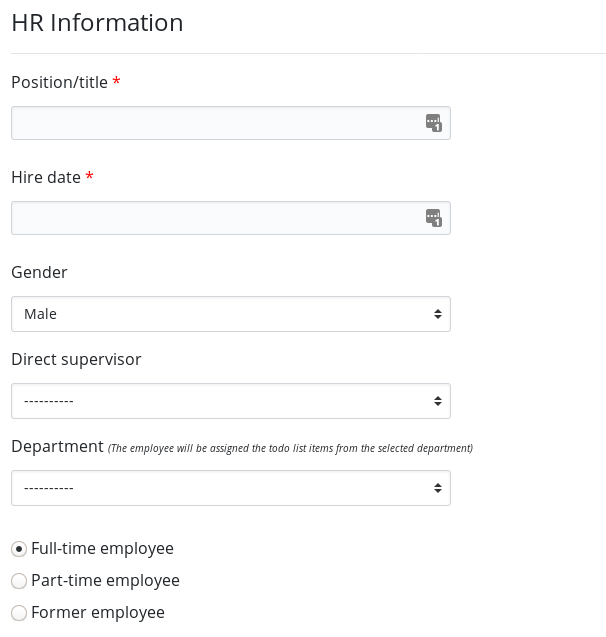
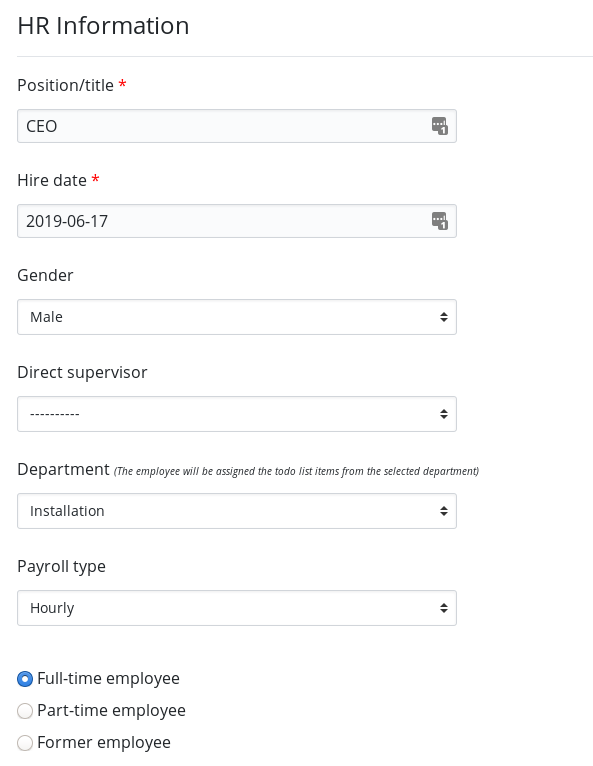
Add the hourly/salary field

diff --git a/content/docs/employees.md b/content/docs/employees.md
@@ -32,6 +32,7 @@ The next section deals more closely with HR specific information about the emplo
 * **Gender:** _Can be set to "Male", "Female" or "Other". Helpful as a reference to which pronouns an employee prefers to be addressed with_
 * **Direct supervisor:** _An employee's direct supervisor will be the person who receives all [time-off]({{< relref "/docs/time_off.md" >}}) requests for this employee and will be able to view all [time slips]({{< relref "/docs/time_slips.md" >}}) they submit. This employee will be linked to on their supervisor's internal [company profile page]({{< relref "/docs/profile_pages.md" >}}) as well as their supervisor will be linked from theirs. The integrated [organization chart]({{< relref "/docs/org_chart.md" >}}) also utilizes this information to build the chart._
 * **Department:** _The company [department]({{< relref "/docs/departments.md" >}}) to which the employee belongs. This is displayed on the employee's [profile page]({{< relref "/docs/profile_pages.md" >}}) as well it is used to specify which [todo list]({{< relref "/docs/todo_lists.md" >}}) (onboarding template) should be assigned to them_
+* **Payroll type:** _Use this field to specify if the employee is compensated via a salary or paid hourly_
 * **Employee type:** _This information is displayed on the employee's [profile page]({{< relref "/docs/profile_pages.md" >}}). If the employee has left the company select the "Former employee" option and enter the date they left the company. Visit the [former employees]({{< relref "/docs/former_employees.md" >}}) page for more information_
 
 ![Employee information](/docs/img/add_employee_hr.png)
